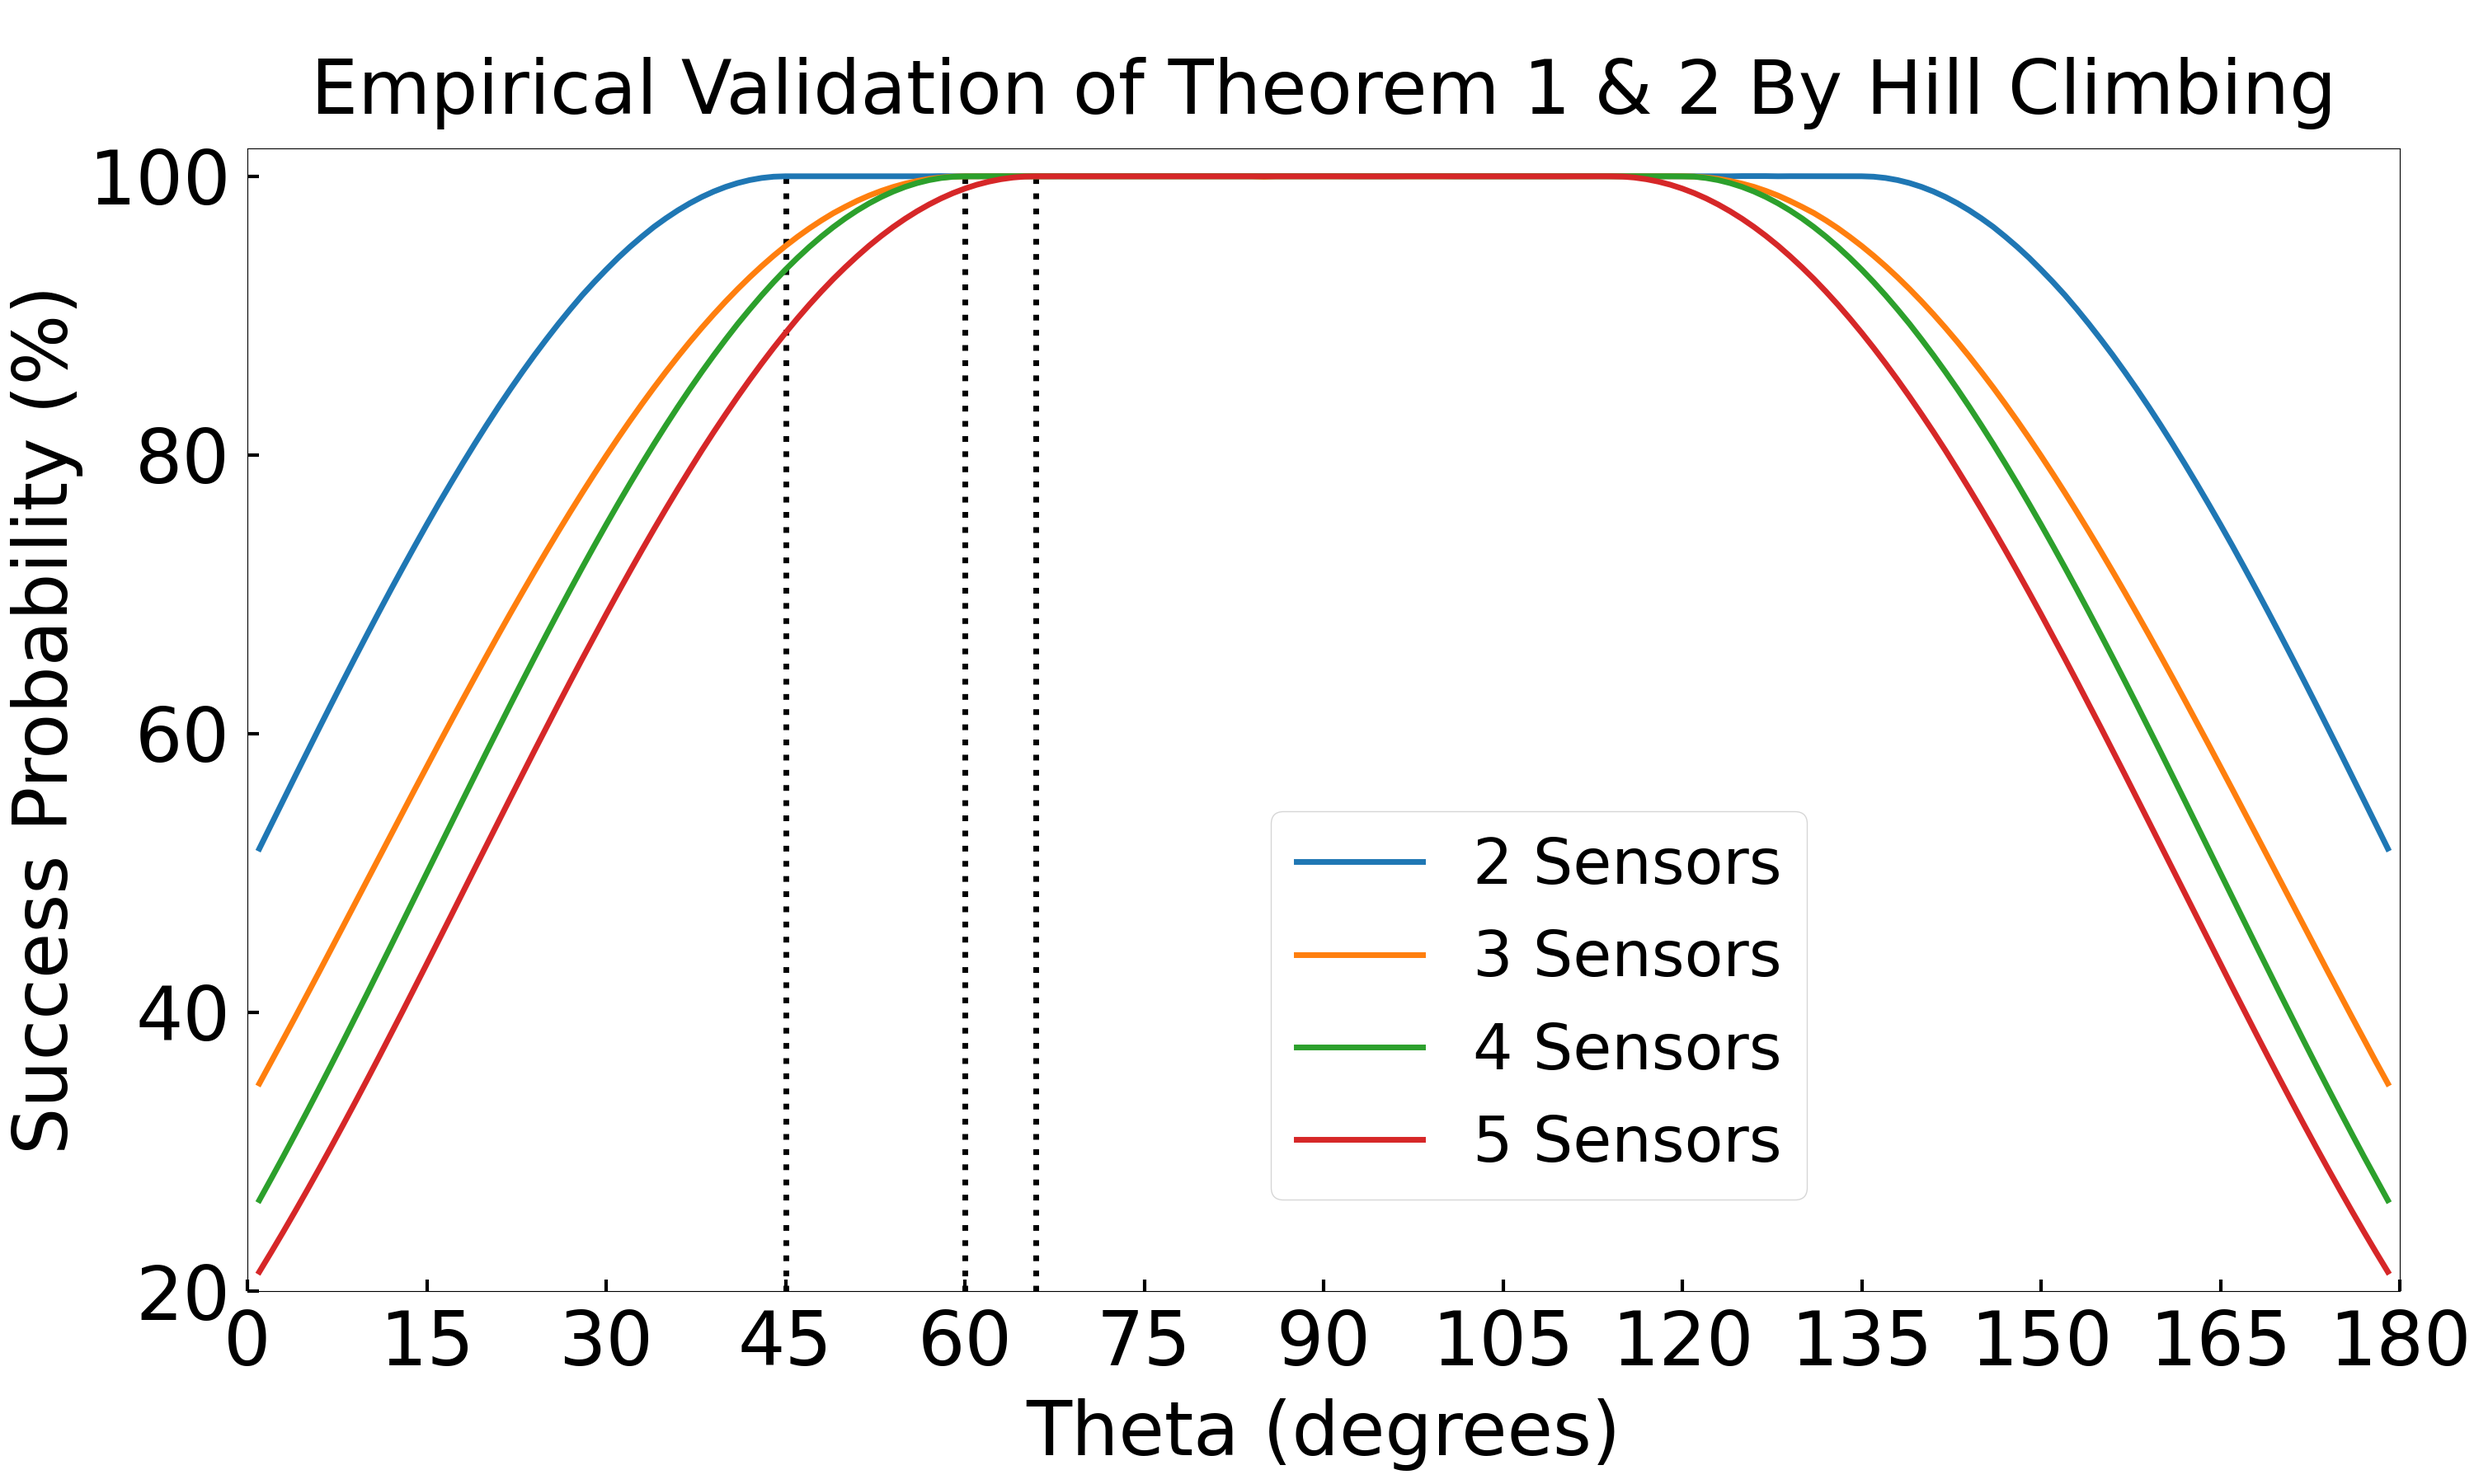
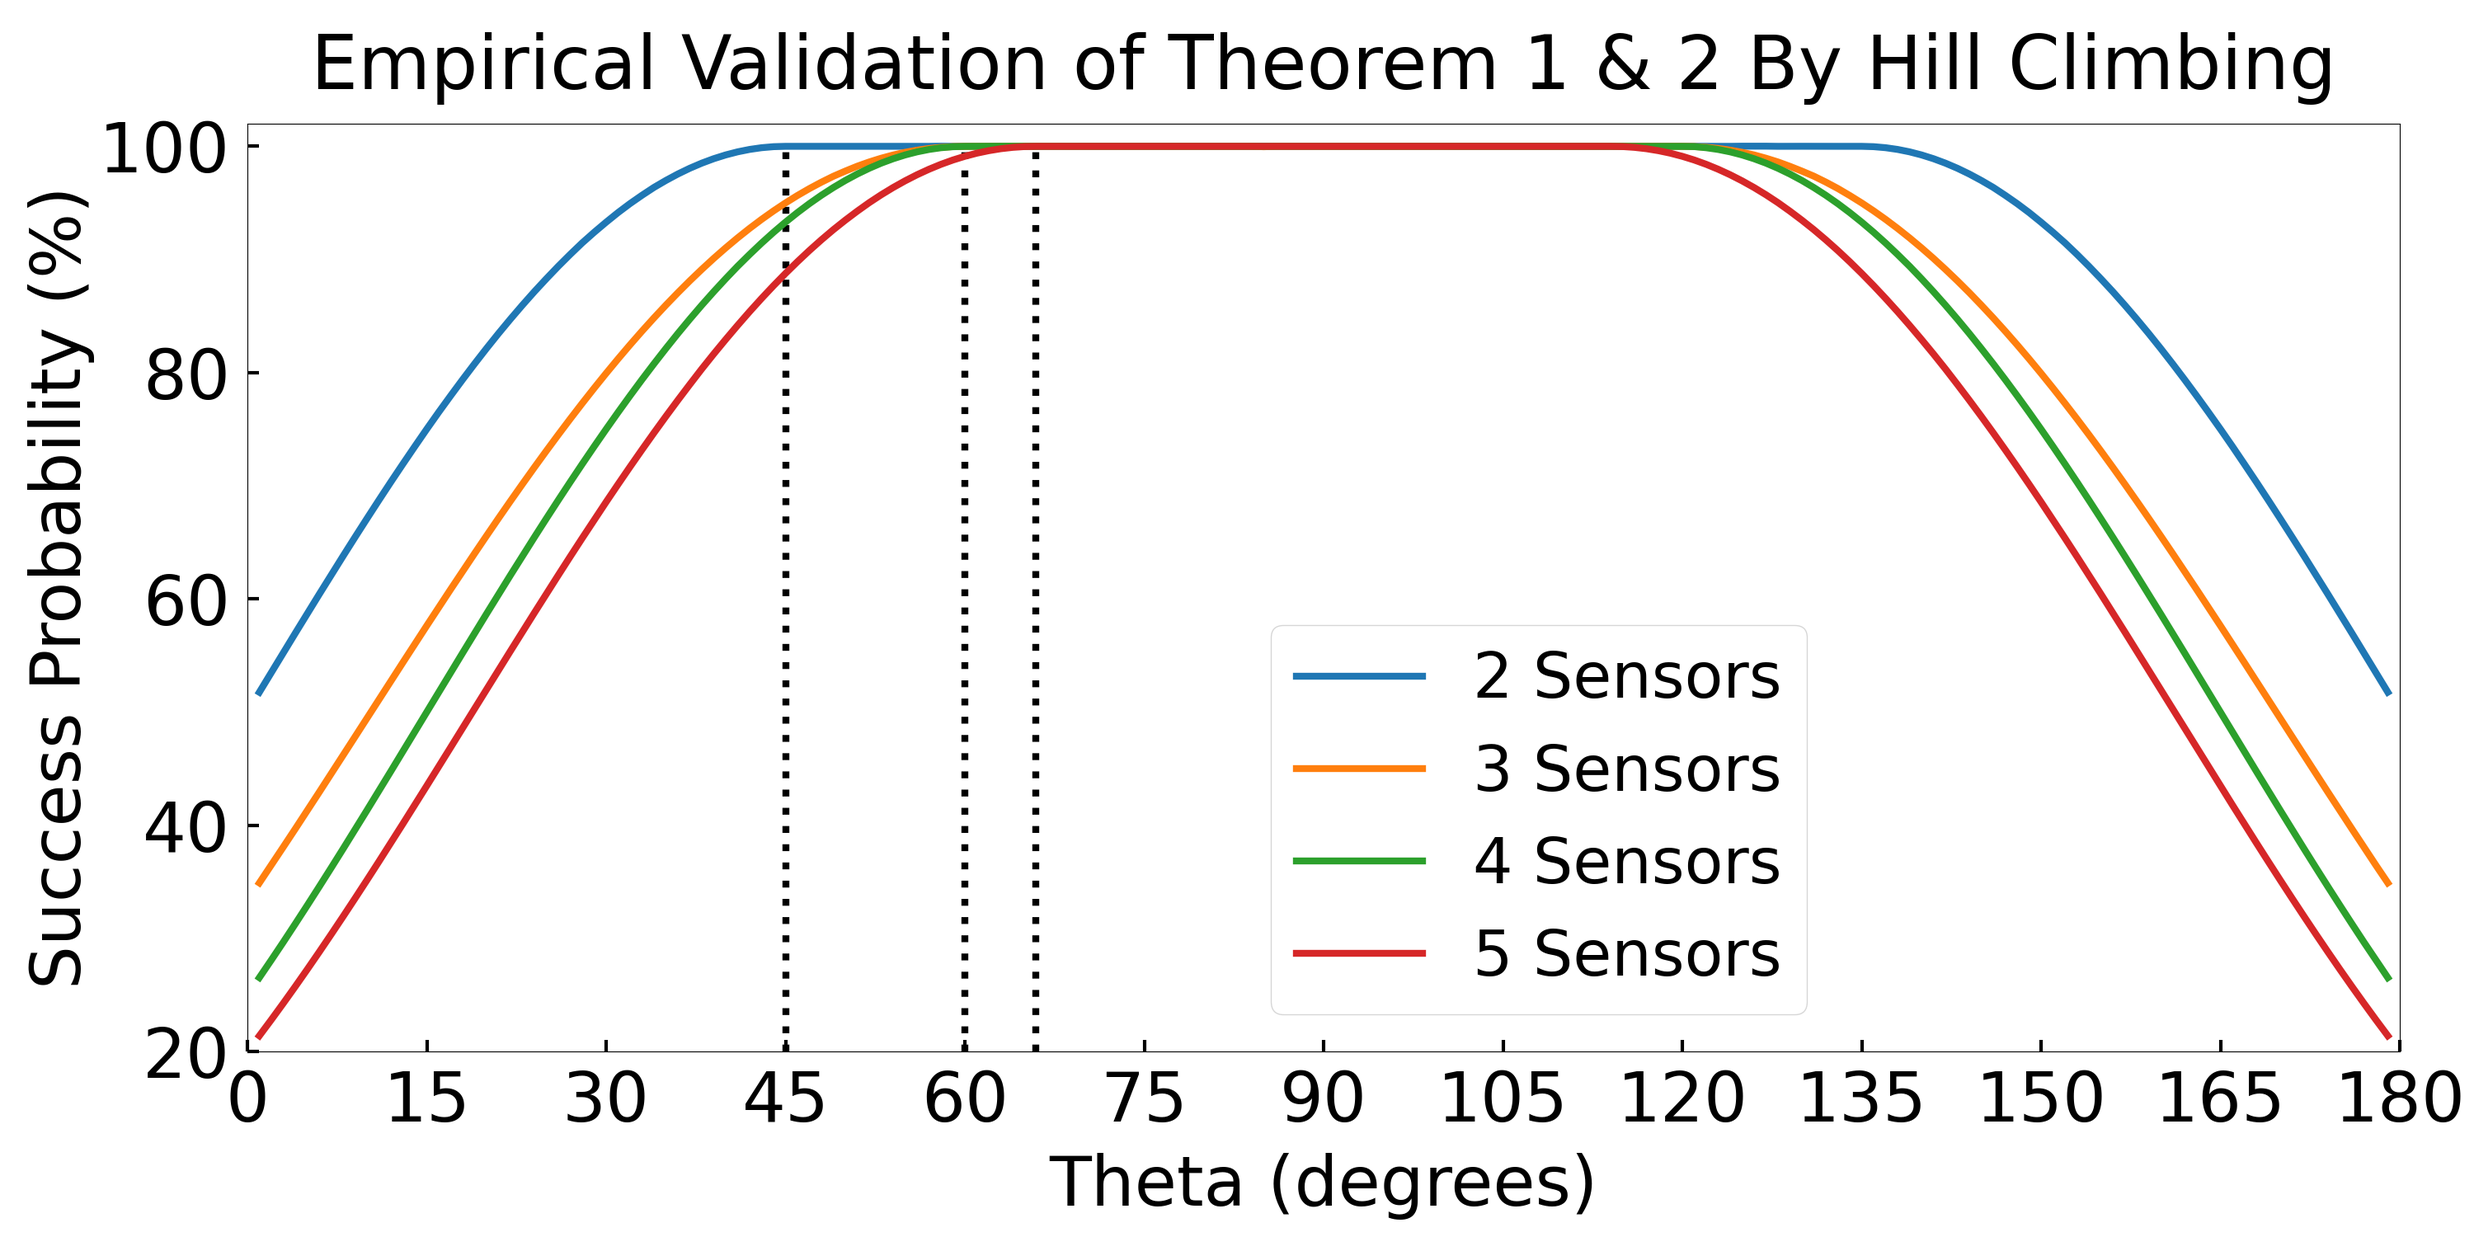
plotting

diff --git a/plot2.py b/plot2.py
@@ -8,8 +8,16 @@ from collections import defaultdict
 
 class Plot:
 
-    plt.rcParams['font.size'] = 65
-    plt.rcParams['lines.linewidth'] = 5
+    plt.rcParams['font.size'] = 60
+    plt.rcParams['lines.linewidth'] = 6
+
+    _METHOD = ['Hill climbing', 'Simulated annealing', 'Genetic algorithm']
+    _LABEL   = ['Hill Climbing', 'Simulated Annealing', 'Genetic Algorithm']
+    METHOD  = dict(zip(_METHOD, _LABEL))
+
+    _METHOD = ['Hill climbing', 'Simulated annealing', 'Genetic algorithm']
+    _STYLE  = ['solid',         'dashed',              'dotted']
+    LINE_STYLE = dict(zip(_METHOD, _STYLE))
 
     @staticmethod
     def vary_theta(data, filename):
@@ -34,8 +42,8 @@ class Plot:
                     y2.append(y[180-theta])  # 5 sensors doesn't has data for theta > 91 degrees
             Y[num_sensor] = y2
         
-        fig, ax = plt.subplots(1, 1, figsize=(30, 18))
-        fig.subplots_adjust(left=0.1, right=0.97, top=0.9, bottom=0.13)
+        fig, ax = plt.subplots(1, 1, figsize=(30, 15))
+        fig.subplots_adjust(left=0.1, right=0.97, top=0.9, bottom=0.15)
         ax.plot(X, Y[2], label='2 Sensors')
         ax.plot(X, Y[3], label='3 Sensors')
         ax.plot(X, Y[4], label='4 Sensors')
@@ -91,14 +99,48 @@ class Plot:
         
         # plotting
         methods = ['Hill climbing', 'Simulated annealing', 'Genetic algorithm']
-        fig, (ax0, ax1) = plt.subplots(1, 2, figsize=(30, 18))
-        fig.subplots_adjust(left=0.1, right=0.97, top=0.9, bottom=0.13)
-        ax0.plot(X, Y[methods[0]])
-        ax0.plot(X, Y[methods[1]])
-        ax0.plot(X, Y[methods[2]])
-        ax1.plot(Y2[methods[0]])
-        ax1.plot(Y2[methods[1]])
-        ax1.plot(Y2[methods[2]])
+        fig, (ax0, ax1) = plt.subplots(1, 2, figsize=(30, 17))
+        fig.subplots_adjust(left=0.1, right=0.97, top=0.85, bottom=0.2)
+        # ax0
+        ax0.plot(X, Y[methods[0]], label=Plot.METHOD[methods[0]], linestyle=Plot.LINE_STYLE[methods[0]])
+        ax0.plot(X, Y[methods[1]], label=Plot.METHOD[methods[1]], linestyle=Plot.LINE_STYLE[methods[1]])
+        ax0.plot(X, Y[methods[2]], label=Plot.METHOD[methods[2]], linestyle=Plot.LINE_STYLE[methods[2]])
+        ax0.legend(ncol=3, loc='upper left', bbox_to_anchor=(-0.2, 1.2, 0.05, 0.05), fontsize=55, columnspacing=0.8)
+        xticks = [i for i in range(0, 91, 15)]
+        ax0.set_xticks(xticks)
+        ax0.set_xticklabels([f'{x}' for x in xticks])
+        yticks = [0.2, 0.4, 0.6, 0.8, 1]
+        ax0.set_yticks(yticks)
+        ax0.set_yticklabels([f'{int(y * 100)}' for y in yticks])
+        ax0.set_ylim([0.25, 1.02])
+        ax0.vlines(x=40, ymin=0.2, ymax=0.883, linestyles='dotted', colors='black')
+        ax0.hlines(y=0.883, xmin=0,   xmax=40, linestyles='dotted', colors='black')
+        ax0.tick_params(axis='x', direction='in', length=10, width=3, pad=15)
+        ax0.tick_params(axis='y', direction='in', length=10, width=3, pad=15)
+        ax0.set_title('HC, SA, GA Performs Similary', fontsize=55)
+        ax0.set_xlabel('Theta (degrees)', labelpad=15)
+        ax0.set_xlim([0, 90])
+        ax0.set_ylim([0.2, 1.02])
+        ax0.set_ylabel('Success Probability (%)')
+        ax0.text(42, 0.865, '(40, 0.883)', fontsize=50)
+        # ax1
+        ax1.plot(Y2[methods[0]], linestyle=Plot.LINE_STYLE[methods[0]])
+        ax1.plot(Y2[methods[1]], linestyle=Plot.LINE_STYLE[methods[1]])
+        ax1.plot(Y2[methods[2]], linestyle=Plot.LINE_STYLE[methods[2]])
+        xticks = [i for i in range(0, 51, 10)]
+        ax1.set_xticks(xticks)
+        ax1.set_xticklabels([f'{x}' for x in xticks])
+        yticks = [0.8, 0.82, 0.84, 0.86, 0.88]
+        ax1.set_yticks(yticks)
+        ax1.set_yticklabels([f'{int(y * 100)}' for y in yticks])
+        ax1.tick_params(axis='x', direction='in', length=10, width=3, pad=15)
+        ax1.tick_params(axis='y', direction='in', length=10, width=3, pad=15)
+        ax1.set_title('Searching Process (Theta = 40)', fontsize=55)
+        ax1.set_xlabel('Iteration Number', labelpad=15)
+        ax1.set_xlim([-1, 50])
+        ax1.set_ylim([0.805, 0.89])
+        plt.figtext(0.28, 0.01, '(a)')
+        plt.figtext(0.75, 0.01, '(b)')
         fig.savefig(filename)
 
 
@@ -120,7 +162,7 @@ def methods_similar():
 
 
 if __name__ == '__main__':
-    # vary_theta()
+    vary_theta()
     methods_similar()
 
     
